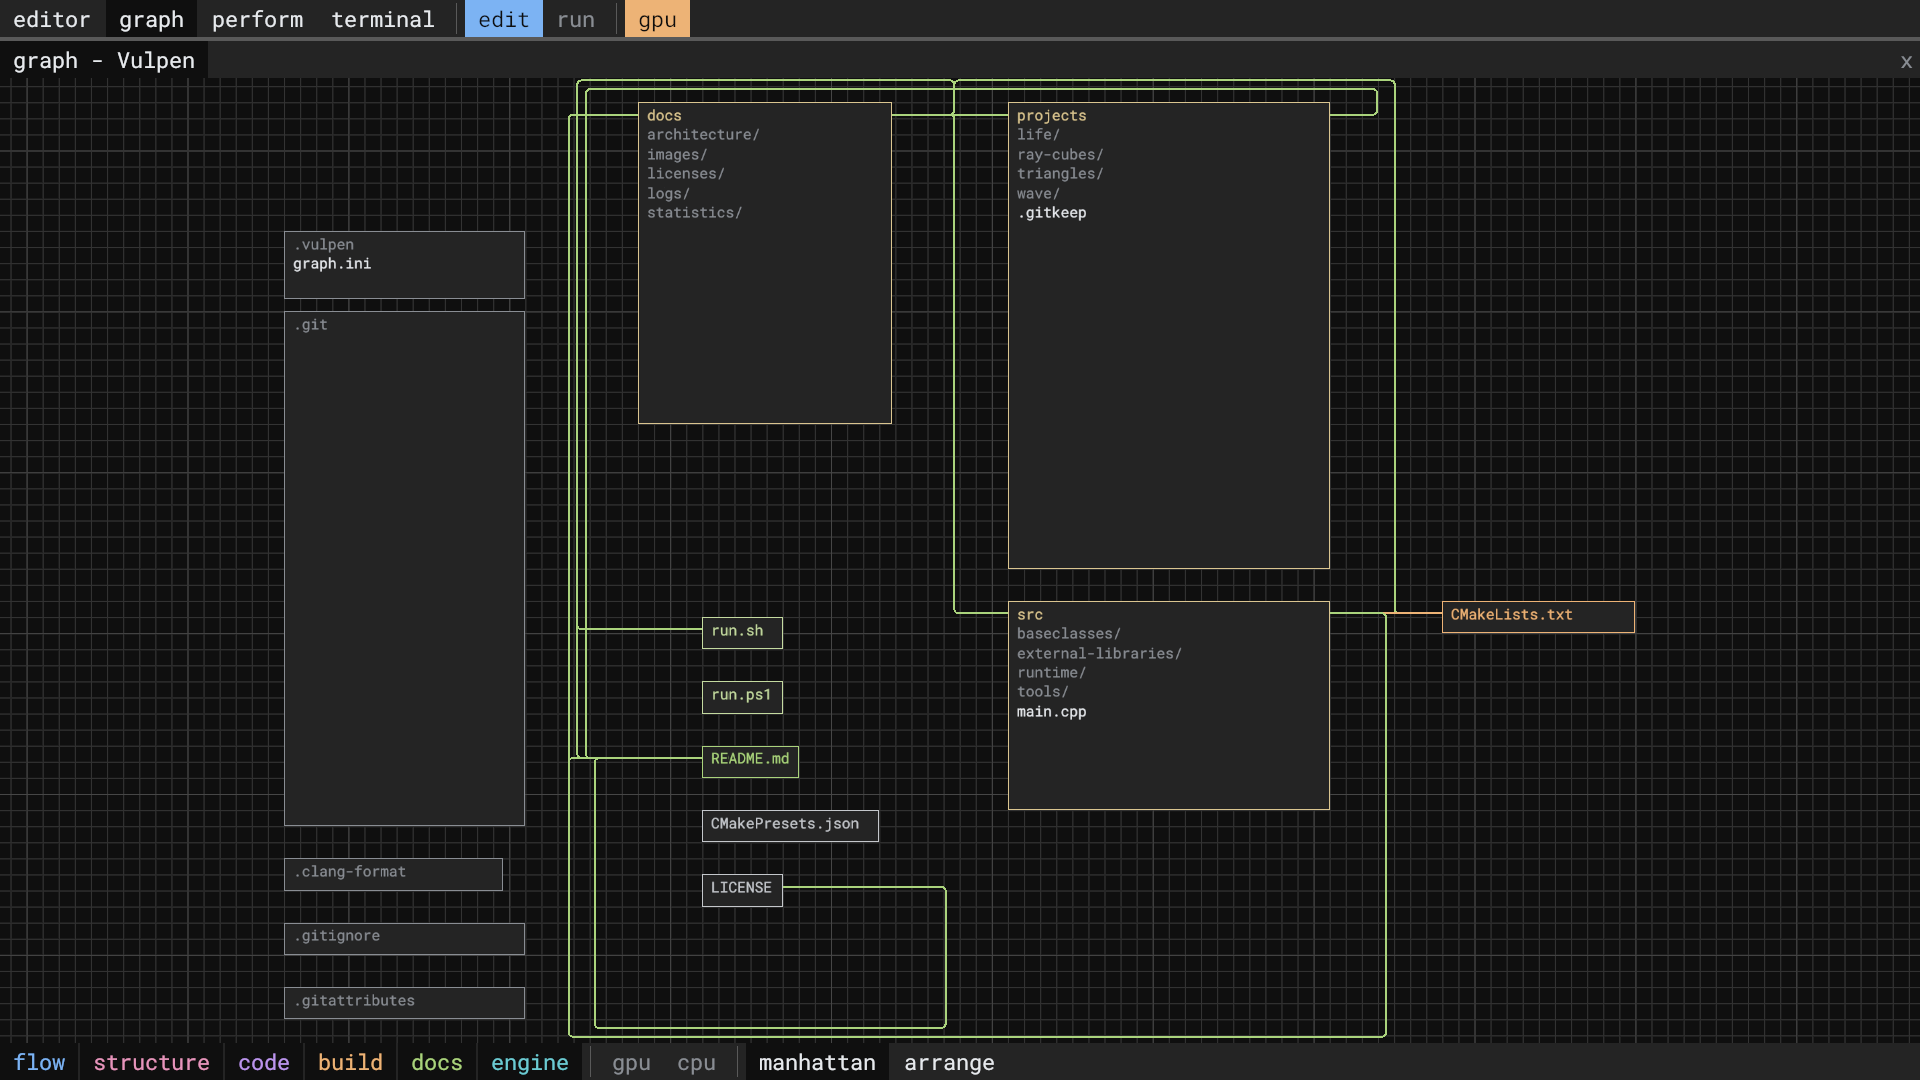
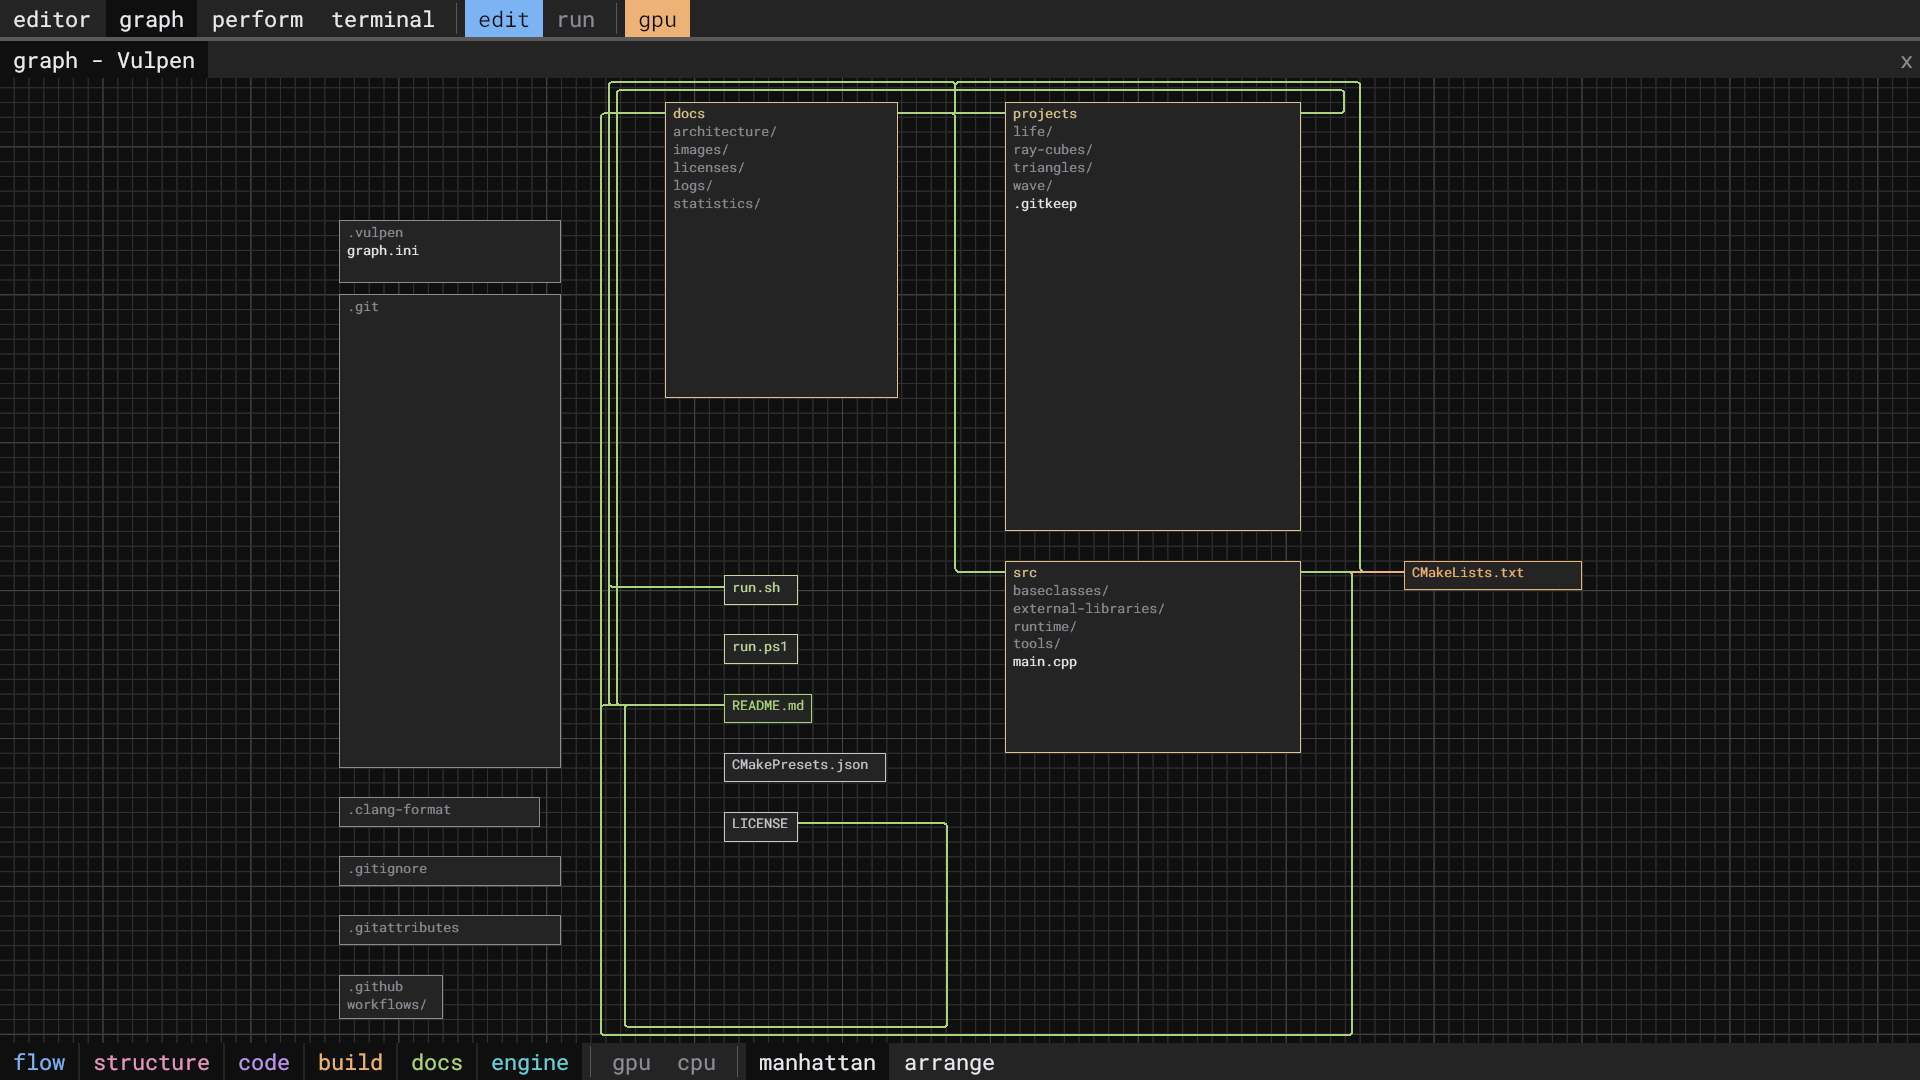
statistics: release build at 34acc1d9, pictures retaken
LOC.md and performance.md as the release build at 34acc1d9 counted
and timed them; LOC.md had not counted the three commits since the
last statistics.

The repository's .vulpen/graph.ini places .github/ under .gitattributes,
with the other dot-files: unplaced, the layout put it far below the rest,
and graph-repository.png and dive.png's first level zoomed out to hold
it. Both are retaken with it there, and cli.png's scroll thumb moved,
as help grew with view list projects; every other picture is
byte-identical.

Changed region(s): [[0.0, 0.0611, 1.0, 0.9778]]

diff --git a/docs/statistics/LOC.md b/docs/statistics/LOC.md
@@ -6,20 +6,20 @@ Generated by [`src/tools/fetch-statistics.py`](../../src/tools/fetch-statistics.
 
 | Language | Files | Code | Comment | Blank |
 | --- | --: | --: | --: | --: |
-| C++ | 146 | 26285 | 4618 | 2717 |
-| CMake | 4 | 430 | 135 | 31 |
+| C++ | 146 | 26303 | 4622 | 2718 |
+| CMake | 4 | 439 | 139 | 31 |
 | GLSL | 126 | 2123 | 407 | 384 |
 | Manifest | 60 | 1191 | 505 | 364 |
-| PowerShell | 1 | 93 | 26 | 4 |
-| Python | 17 | 4614 | 278 | 595 |
-| Shell | 2 | 99 | 31 | 4 |
-| **Total** | 356 | 34835 | 6000 | 4099 |
+| PowerShell | 1 | 93 | 27 | 4 |
+| Python | 17 | 4615 | 278 | 595 |
+| Shell | 2 | 99 | 32 | 4 |
+| **Total** | 356 | 34863 | 6010 | 4100 |
 
 ## By folder
 
 | Folder | Files | Code | Comment | Blank |
 | --- | --: | --: | --: | --: |
-| `./` | 3 | 337 | 108 | 18 |
+| `./` | 3 | 337 | 110 | 18 |
 | `projects/life/` | 1 | 19 | 11 | 6 |
 | `projects/life/cells/` | 2 | 32 | 3 | 9 |
 | `projects/life/contracts/` | 1 | 9 | 2 | 2 |
@@ -100,8 +100,8 @@ Generated by [`src/tools/fetch-statistics.py`](../../src/tools/fetch-statistics.
 | `src/` | 1 | 14 | 1 | 2 |
 | `src/baseclasses/` | 19 | 3630 | 515 | 502 |
 | `src/baseclasses/examples/triangle/` | 3 | 65 | 8 | 10 |
-| `src/runtime/` | 23 | 6727 | 1174 | 694 |
-| `src/runtime/cmake/` | 2 | 189 | 53 | 13 |
+| `src/runtime/` | 23 | 6728 | 1175 | 694 |
+| `src/runtime/cmake/` | 2 | 198 | 57 | 13 |
 | `src/runtime/recipes/cli/` | 1 | 20 | 9 | 7 |
 | `src/runtime/recipes/ide/` | 1 | 326 | 91 | 75 |
 | `src/runtime/recipes/library/components/dock/` | 1 | 10 | 4 | 4 |
@@ -117,7 +117,7 @@ Generated by [`src/tools/fetch-statistics.py`](../../src/tools/fetch-statistics.
 | `src/runtime/recipes/library/contracts/` | 18 | 339 | 146 | 82 |
 | `src/runtime/recipes/library/parts/bar/` | 2 | 56 | 11 | 8 |
 | `src/runtime/recipes/library/parts/command-items/` | 2 | 3 | 3 | 2 |
-| `src/runtime/recipes/library/parts/command-line/` | 2 | 1324 | 244 | 88 |
+| `src/runtime/recipes/library/parts/command-line/` | 2 | 1326 | 245 | 88 |
 | `src/runtime/recipes/library/parts/curves/` | 4 | 48 | 13 | 7 |
 | `src/runtime/recipes/library/parts/deck/` | 2 | 148 | 32 | 13 |
 | `src/runtime/recipes/library/parts/docking/` | 3 | 1662 | 308 | 101 |
@@ -138,7 +138,7 @@ Generated by [`src/tools/fetch-statistics.py`](../../src/tools/fetch-statistics.
 | `src/runtime/recipes/library/parts/modes/` | 2 | 237 | 67 | 16 |
 | `src/runtime/recipes/library/parts/palette/` | 2 | 88 | 10 | 11 |
 | `src/runtime/recipes/library/parts/panes/` | 2 | 335 | 51 | 22 |
-| `src/runtime/recipes/library/parts/projects/` | 2 | 213 | 38 | 22 |
+| `src/runtime/recipes/library/parts/projects/` | 2 | 228 | 40 | 23 |
 | `src/runtime/recipes/library/parts/rects/` | 4 | 28 | 4 | 6 |
 | `src/runtime/recipes/library/parts/relations/` | 3 | 841 | 160 | 60 |
 | `src/runtime/recipes/library/parts/shared/` | 13 | 599 | 151 | 121 |
@@ -149,7 +149,7 @@ Generated by [`src/tools/fetch-statistics.py`](../../src/tools/fetch-statistics.
 | `src/runtime/recipes/library/parts/switch/` | 2 | 34 | 5 | 9 |
 | `src/runtime/recipes/library/parts/text/` | 5 | 1626 | 262 | 126 |
 | `src/runtime/recipes/library/parts/viewport/` | 2 | 17 | 5 | 6 |
-| `src/tools/` | 6 | 2602 | 178 | 335 |
+| `src/tools/` | 6 | 2603 | 178 | 335 |
 | `src/tools/gates/` | 3 | 333 | 20 | 70 |
 | `src/tools/tests/` | 11 | 1838 | 118 | 207 |
 | `src/tools/tests/mistakes/` | 1 | 66 | 37 | 28 |
@@ -178,4 +178,4 @@ Generated by [`src/tools/fetch-statistics.py`](../../src/tools/fetch-statistics.
 | `src/tools/tests/mistakes/take/` | 1 | 27 | 2 | 7 |
 | `src/tools/tests/mistakes/twin/` | 1 | 9 | 2 | 4 |
 | `src/tools/tests/mistakes/wrong/` | 2 | 74 | 6 | 15 |
-| **Total** | 356 | 34835 | 6000 | 4099 |
+| **Total** | 356 | 34863 | 6010 | 4100 |

diff --git a/docs/statistics/performance.md b/docs/statistics/performance.md
@@ -4,6 +4,6 @@ Generated by [`src/tools/fetch-statistics.py`](../../src/tools/fetch-statistics.
 
 | System | CPU | GPU | Build | Startup to exit, median | Startup to exit, fastest | Binary size |
 | --- | --- | --- | --- | --: | --: | --: |
-| Linux | AMD Ryzen AI 7 350 w/ Radeon 860M | NVIDIA GeForce RTX 5070 Laptop GPU | `vulpen fbdf06d4` | 1.36 ms | 0.55 ms | 3369.7 KiB |
+| Linux | AMD Ryzen AI 7 350 w/ Radeon 860M | NVIDIA GeForce RTX 5070 Laptop GPU | `vulpen 34acc1d9` | 1.08 ms | 0.92 ms | 3373.9 KiB |
 | Windows | AMD Ryzen AI 7 350 w/ Radeon 860M | NVIDIA GeForce RTX 5070 Laptop GPU | `vulpen 2ddc4d7-dirty` | 8.04 ms | 7.38 ms | 683.0 KiB |
 | Linux | Intel(R) Core(TM) i7-7700HQ CPU @ 2.80GHz | NVIDIA GeForce GTX 1070 | `vulpen 8a92b28-dirty` | 1.98 ms | 1.62 ms | 3152.5 KiB |
